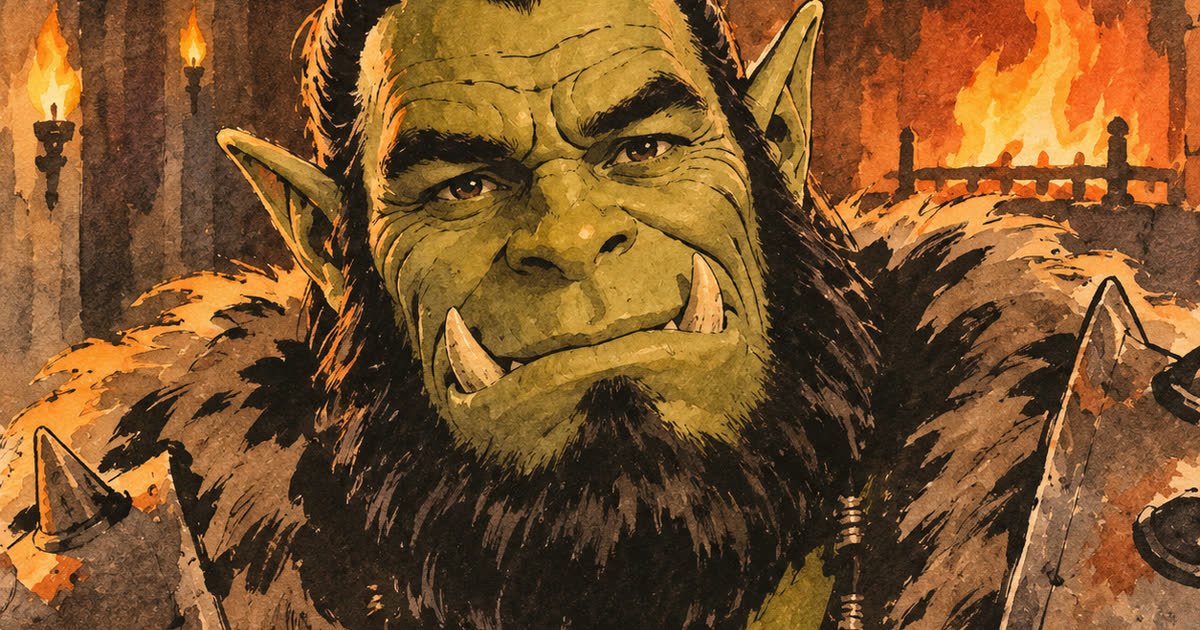
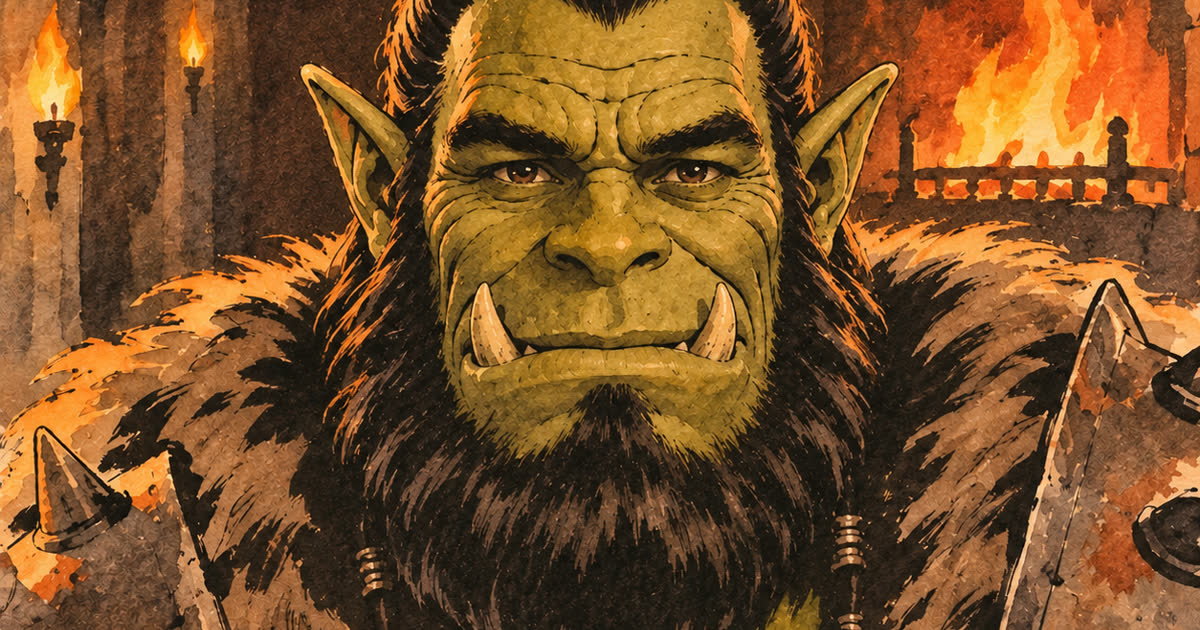
Calm Orc smile down to one small nod and a warm smile, looping without a repeat.

diff --git a/scripts/imagine-video.ts b/scripts/imagine-video.ts
@@ -104,9 +104,9 @@ const PROMPTS: Record<string, string> = {
   nod: "The orc nods his head yes twice and holds the thumbs-up, a satisfied blink. His hair, face and outfit stay exactly the same throughout. Natural character animation, locked camera, no zoom or pan.",
   online:
     "The orc looks at the camera and gives a small hello wave, a friendly blink, available and here. Locked camera.",
-  // Orc smile repaints the pre-restyle topknot orc. Grok never returns to the smirk, so the GIF plays the first 3 s forward, then reversed.
+  // Orc smile repaints the pre-restyle topknot orc facing front; from a three-quarter still Grok turns his head and the loop never closes. The GIF dissolves the last 0.4 s into the start.
   "orc-smile":
-    "The orc looks at the viewer with a slight knowing smirk. His eyes crinkle and his closed-mouth smile slowly widens into a warm, pleased grin, and he gives a small, slow acknowledging nod with a slight tilt of his head. Then he settles back into his starting pose and smirk. Mouth stays closed, no talking. His topknot, beard, face, fur and armor stay exactly the same throughout. He does not lean toward the camera. The fire and torches behind him flicker softly. Locked camera, no zoom, no cut.",
+    "The orc gives one small, slow nod of acknowledgement, chin dipping just slightly, his smirk warming and eyes softening, then a slow friendly blink. His head stays upright and facing the viewer, centered, and ends exactly where it started. Mouth stays closed, no talking. His topknot, beard, face, fur and armor stay exactly the same. He does not lean in. The fire and torches flicker softly. Locked camera, no zoom, no cut.",
   pickaxe:
     "The orc swings the pickaxe into the rock wall, stone chips and dust flying, then hauls it back for another strike. Focused work grimace. Mouth stays closed, no talking. Locked camera.",
   popcorn:
